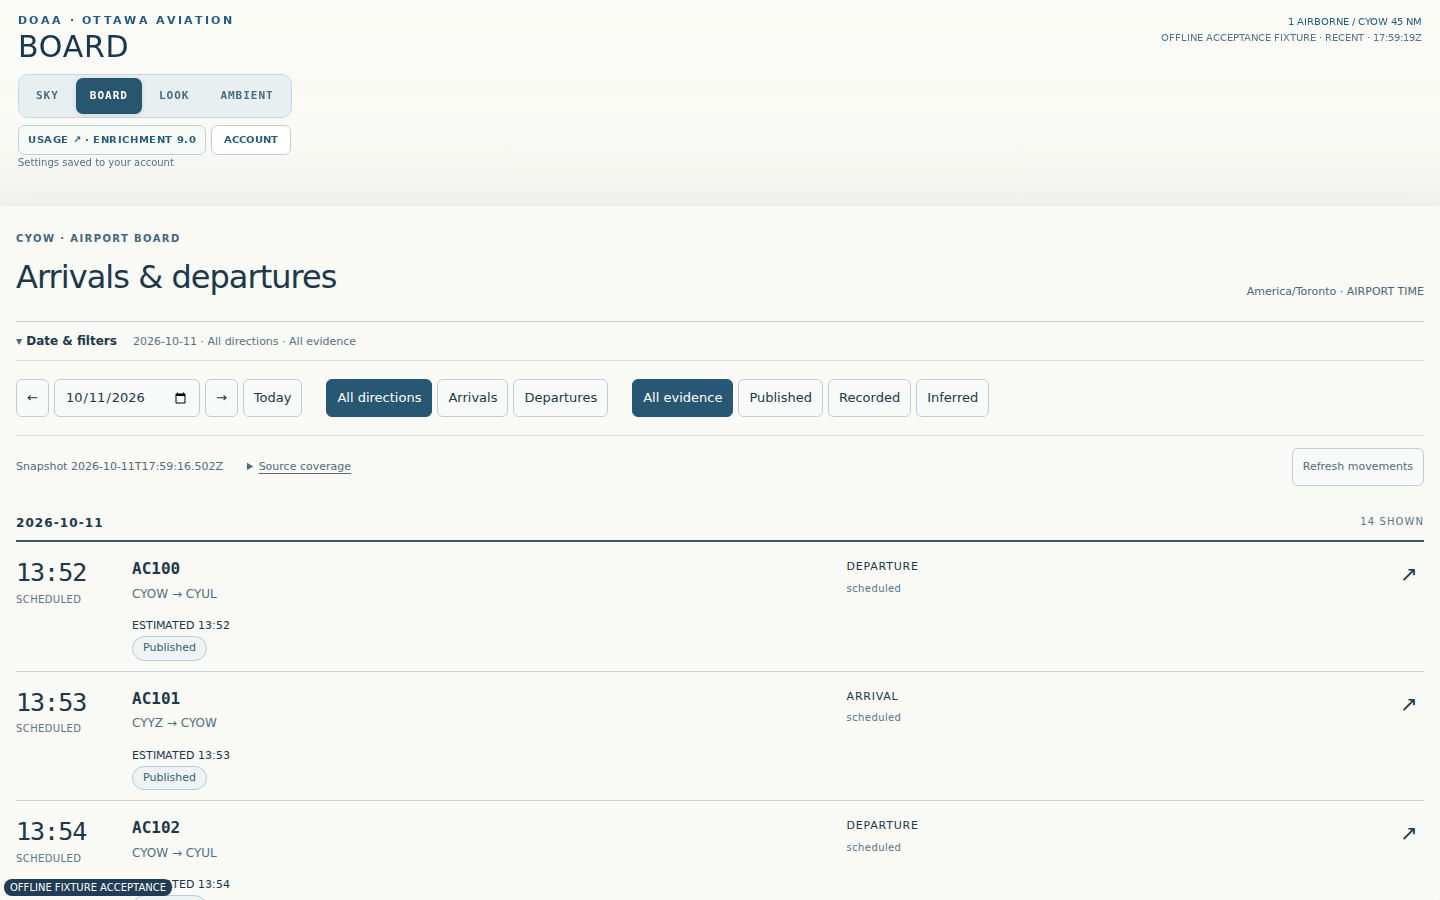
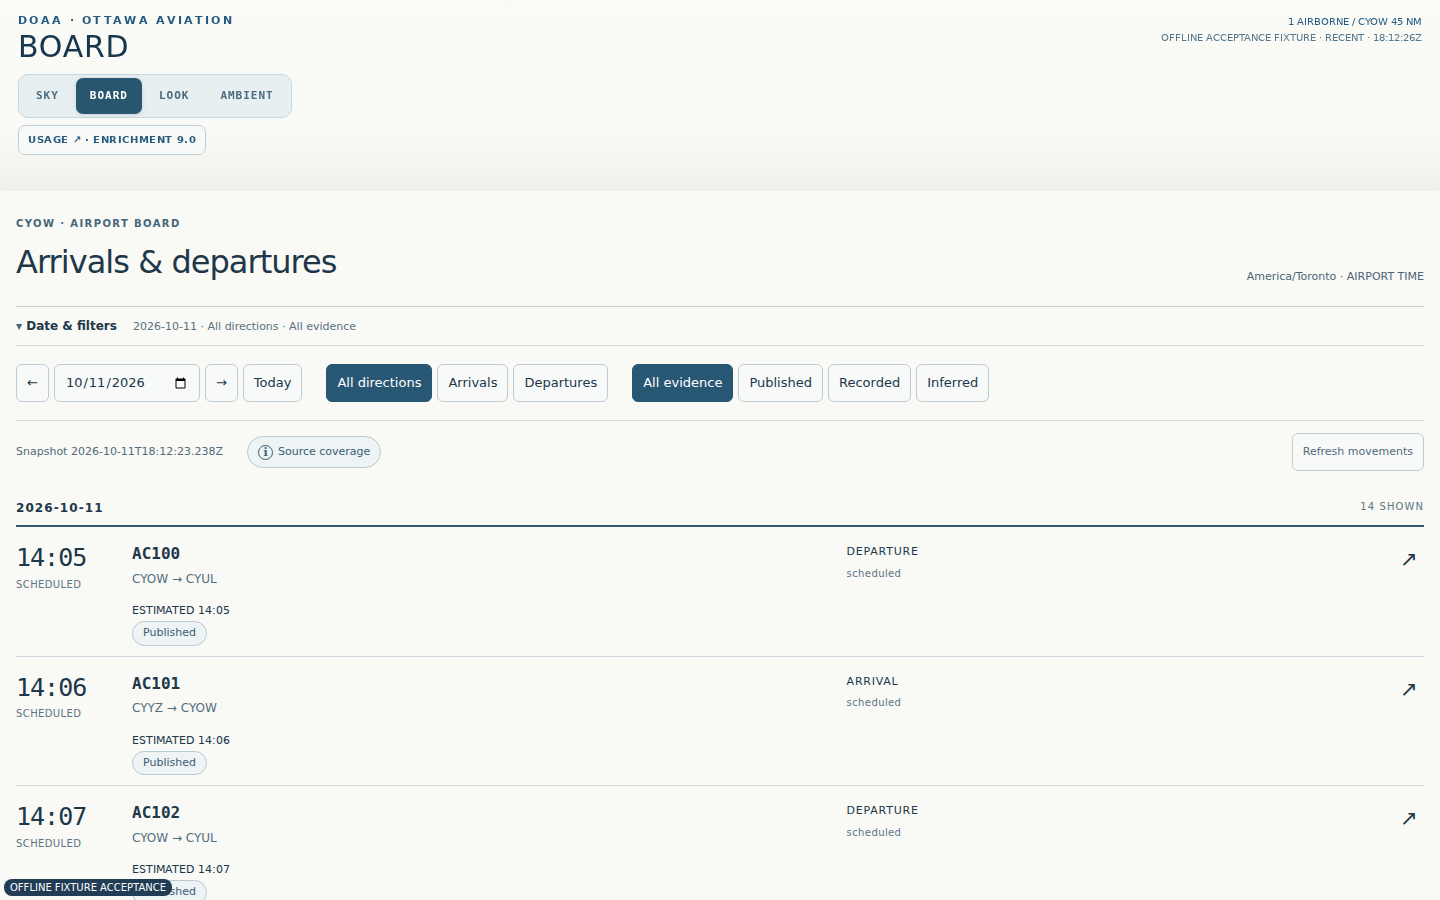
Polish view switcher and preference actions [skip ci]

diff --git a/account.js b/account.js
@@ -3,10 +3,11 @@
  'use strict';
  let sync,initializing;
  async function api(path,method='GET',body){const r=await fetch(path,{method,cache:'no-store',headers:body?{'content-type':'application/json'}:undefined,body:body?JSON.stringify(body):undefined,signal:AbortSignal.timeout(10000)}),j=await r.json();if(!r.ok||!j.ok)throw Error(j.error||'Account service unavailable');return j;}
- const descriptions={loading:'Loading account preferences',saved:'Settings saved to your account',pending:'Settings applied locally; waiting to save',saving:'Saving account settings',failed:'Settings applied locally; account save failed',unavailable:'Account settings could not be refreshed'};
- function notify(detail){document.querySelectorAll('[data-preference-state]').forEach(e=>{e.textContent=descriptions[detail.state]||detail.state;e.dataset.state=detail.state;});const retry=document.querySelector('[data-account-retry]');if(retry)retry.hidden=!['failed','pending','unavailable'].includes(detail.state);}
+ const descriptions={loading:'Loading account preferences',saved:'',pending:'Settings applied locally; waiting to save',saving:'Saving account settings',failed:'Settings applied locally; account save failed',unavailable:'Account settings could not be refreshed'};
+ function notify(detail){document.querySelectorAll('[data-preference-state]').forEach(e=>{e.textContent=descriptions[detail.state]??detail.state;e.dataset.state=detail.state;e.hidden=['saved','loading','saving'].includes(detail.state);});const retry=document.querySelector('[data-account-retry]');if(retry)retry.hidden=!['failed','pending','unavailable'].includes(detail.state);}
  async function refresh(){const snapshot=await sync.refresh();if(snapshot)window.dispatchEvent(new CustomEvent('doaa:preferences-restored'));}
- function open(){const previous=document.activeElement,dialog=document.createElement('dialog');dialog.className='account-dialog';dialog.innerHTML='<header><h2>Your account</h2><button type="button" data-close aria-label="Close account">×</button></header><p data-preference-state role="status"></p><p>Your Home, units and display settings follow your signed-in account. The latest complete snapshot accepted by the server replaces the previous one. A delayed retry also replaces that snapshot.</p><button type="button" data-saved>Saved moments</button><button type="button" data-refresh>Refresh settings</button><button type="button" data-account-retry>Retry save</button><form method="post" action="/auth/sign-out"><button type="submit">Sign out</button></form>';document.body.appendChild(dialog);dialog.showModal();notify({state:sync.state});dialog.querySelector('[data-close]').onclick=()=>dialog.close();dialog.onclose=()=>{dialog.remove();previous?.focus();};dialog.querySelector('[data-saved]').onclick=()=>{dialog.close();window.DOAABookmarks?.open();};dialog.querySelector('[data-refresh]').onclick=refresh;dialog.querySelector('[data-account-retry]').onclick=()=>{sync.attempt=0;sync.pending?sync.flush():refresh();};}
- async function initialize(){if(initializing)return initializing;initializing=(async()=>{const identity=await api('/api/account');sync=new window.DOAAPreferenceCore.Sync({subject:identity.subject,request:(method,body)=>api('/api/preferences',method,body),persistence:window.localStorage,onChange:notify});await sync.load();window.DOAAStorage={getItem:k=>sync.getItem(k),setItem:(k,v)=>sync.setItem(k,v)};const host=document.getElementById('build')?.parentElement;if(host){const button=document.createElement('button');button.type='button';button.id='account-open';button.textContent='ACCOUNT';button.setAttribute('aria-label','Your account and saved settings');button.onclick=open;host.appendChild(button);const status=document.createElement('small');status.dataset.preferenceState='1';status.setAttribute('role','status');host.appendChild(status);notify({state:sync.state});}window.addEventListener('online',()=>{sync.attempt=0;sync.pending?sync.flush():refresh();});document.addEventListener('visibilitychange',()=>{if(!document.hidden)refresh();});return sync;})();return initializing;}
- window.DOAAAccount={initialize,open,refresh,get subject(){return sync?.subject||null;}};
+ function open(){const previous=document.activeElement,dialog=document.createElement('dialog');dialog.className='account-dialog';dialog.innerHTML='<header><h2>Your account</h2><button type="button" data-close aria-label="Close account">×</button></header><p data-preference-state role="status"></p><p>Your Home, units and display settings follow your signed-in account. Changes save automatically. If a save fails, your current settings stay in place while you retry.</p><button type="button" data-saved>Saved moments</button><button type="button" data-refresh>Refresh settings</button><button type="button" data-account-retry>Retry save</button><form method="post" action="/auth/sign-out"><button type="submit">Sign out</button></form>';document.body.appendChild(dialog);dialog.showModal();notify({state:sync.state});dialog.querySelector('[data-close]').onclick=()=>dialog.close();dialog.onclose=()=>{dialog.remove();previous?.focus();};dialog.querySelector('[data-saved]').onclick=()=>{dialog.close();window.DOAABookmarks?.open();};dialog.querySelector('[data-refresh]').onclick=refresh;dialog.querySelector('[data-account-retry]').onclick=()=>{sync.attempt=0;sync.pending?sync.flush():refresh();};}
+ function mount(host){if(!host)return;const footer=document.createElement('div');footer.className='sky-account-footer';const button=document.createElement('button');button.type='button';button.id='account-open';button.textContent='Account';button.setAttribute('aria-label','Your account and saved settings');button.onclick=open;footer.appendChild(button);host.appendChild(footer);}
+ async function initialize(){if(initializing)return initializing;initializing=(async()=>{const identity=await api('/api/account');sync=new window.DOAAPreferenceCore.Sync({subject:identity.subject,request:(method,body)=>api('/api/preferences',method,body),persistence:window.localStorage,onChange:notify});await sync.load();window.DOAAStorage={getItem:k=>sync.getItem(k),setItem:(k,v)=>sync.setItem(k,v)};const host=document.getElementById('build')?.parentElement;if(host){const status=document.createElement('small');status.dataset.preferenceState='1';status.setAttribute('role','status');host.appendChild(status);notify({state:sync.state});}window.addEventListener('online',()=>{sync.attempt=0;sync.pending?sync.flush():refresh();});document.addEventListener('visibilitychange',()=>{if(!document.hidden)refresh();});return sync;})();return initializing;}
+ window.DOAAAccount={initialize,open,refresh,mount,get subject(){return sync?.subject||null;}};
 })();

diff --git a/index.html b/index.html
@@ -182,6 +182,13 @@ html,body{background:#f3f4ef;color:var(--ice)}
 
 /* Flight and Airframe investigation, using the shared loaded evidence. */
 .flight-timing-grid .inspector-facts{grid-template-columns:repeat(2,minmax(0,1fr));gap:0 14px}.flight-timing-grid .fact-value{font-size:14px;font-weight:650}.inspector-note{font:12px/1.55 system-ui;color:#526773;margin:8px 0;overflow-wrap:anywhere}.flight-route-strip{position:relative;height:24px;margin:9px 8px 0}.flight-route-line{position:absolute;left:0;right:0;top:12px;border-top:1px dashed #7794a5}.flight-route-dot{position:absolute;top:8px;width:9px;height:9px;margin-left:-4px;border-radius:50%;background:#285e81}.flight-map{margin:12px 0;color:#305d78;border:1px solid #cbd5d9;background:#eff3f2;border-radius:10px;overflow:hidden}.flight-map svg{display:block;width:100%;max-height:245px}.flight-map figcaption{padding:9px 12px;font:11px/1.55 system-ui;color:#536977}.inspector-action,.inspector-loading button{min-height:44px;padding:9px 12px;border:1px solid #b5c9d3;border-radius:7px;background:#fff;color:#285e81;font:13px system-ui;cursor:pointer}.inspector-action:focus-visible,.inspector-loading button:focus-visible{outline:3px solid #285e81;outline-offset:2px}.airframe-chronology{padding-left:20px;margin:8px 0}.airframe-chronology li{padding:8px 0;border-bottom:1px solid #ced9dd;overflow-wrap:anywhere;font-size:13px}.airframe-chronology small{font-size:11px;color:#536c78}.inspector-loading{font:12px/1.5 system-ui;color:#55727d;display:flex;align-items:center;gap:9px;margin:10px 0;flex-wrap:wrap}.inspector-loading[data-state="loading"]:before{content:"";width:10px;height:10px;border:2px solid #9fb4c0;border-top-color:#285e81;border-radius:50%;animation:inspector-spin 1s linear infinite}.inspector-evidence-summary{font-size:12px;color:#546d79}.journey-summary{display:grid;gap:8px;margin:12px 0}.journey-summary>div{padding:10px;background:#edf2f2;border-radius:7px}.journey-summary strong{display:block;font-size:11px;letter-spacing:.06em;color:#526c7a}.journey-chronology{padding:0;list-style:none;margin:10px 0}.journey-chronology li{border-left:2px solid #aebfca;padding:8px 0 10px 12px;margin-left:4px}.journey-chronology time{display:block;font:12px/1.6 ui-monospace;color:#4f6875}.journey-chronology button{display:block;width:100%;min-height:44px;padding:8px 0;text-align:left;border:0;background:transparent;color:#285e81;font:600 13px/1.5 system-ui;cursor:pointer}@keyframes inspector-spin{to{transform:rotate(360deg)}}@media(prefers-reduced-motion:reduce){.inspector-loading[data-state="loading"]:before{animation:none;border-radius:2px}}
+
+/* Keep the whole view switcher inside its surface; account actions belong with preferences. */
+.primary-tabs{box-sizing:border-box}
+[data-preference-state][hidden]{display:none}
+.sky-account-footer{margin-top:18px;padding-top:14px;border-top:1px solid #c6d2d6}
+.sky-account-footer #account-open{margin:0;min-height:44px;font:600 12px system-ui;padding:8px 14px}
+@media(max-width:640px){.top>div:first-child{grid-column:1/-1;grid-row:1}.top .status{grid-column:2;grid-row:1}.primary-tabs{max-width:100%}.primary-tabs button{flex:0 1 auto;white-space:nowrap}}
 </style><link rel="stylesheet" href="/ambient.css"><link rel="stylesheet" href="/track-history.css">
 </head><body>
 <div id="vector-base" aria-hidden="true"></div><canvas id="tiles"></canvas><canvas id="sky"></canvas><div class="top"><div><div class="brand">DOAA · OTTAWA AVIATION</div><div class="title" id="viewtitle">SKY</div><nav id="primary-tabs" class="primary-tabs" aria-label="DOAA views"><button type="button" data-primary="SKY" aria-pressed="true">SKY</button><button type="button" data-primary="BOARD" aria-pressed="false">BOARD</button><button type="button" data-primary="LOOK" aria-pressed="false">LOOK</button><button type="button" id="ambient-open" aria-label="Ambient display options">AMBIENT</button></nav><div class="build" id="build" role="button" tabindex="0" aria-expanded="false" aria-controls="quota-panel" title="Open provider usage">USAGE ↗</div></div><div class="status" id="status">ACQUIRING…</div></div><section id="quota-panel" class="quota-panel" aria-live="polite"><div class="quota-head"><strong>AIRLABS · PROVIDER USAGE</strong><button type="button" id="quota-close" aria-label="Close provider usage" title="Close provider usage">×</button></div><div id="quota-data">Loading telemetry…</div></section><div id="viewmenu" class="viewmenu"></div><nav class="map-choice" aria-label="Base map"><button type="button" data-map="base" aria-pressed="true">BASE</button><button type="button" data-map="street" aria-pressed="false">STREET</button></nav><main id="board" class="board" tabindex="-1" aria-label="Airport movements and LOOK observations"></main><div id="catchment" class="catchment"></div><div id="detail" class="detail"><button id="detail-expand" class="detail-expand" type="button" aria-expanded="false" aria-controls="detailbody">Expand</button><button id="detailclose" class="detail-close" type="button" aria-label="Close Investigator">×</button><div id="detailbody" class="detail-body"></div><div id="detailtray" class="detail-tray" aria-label="Investigator sections"></div></div><button id="recenter" class="recenter">⌖ RETURN HOME</button><div id="attrib" class="attrib">MAP OSM · ACQUIRING</div><aside class="rail" id="rail"><div class="pull" id="pull"></div><div class="rackhead"><h2 class="racktitle">NEARBY AIRCRAFT</h2><input id="rackquery" class="rackquery" type="search" autocomplete="off" spellcheck="false" placeholder="SEARCH DOAA"><button id="racksearch" class="racksearch" aria-label="Search DOAA">⌕</button></div><div id="rack"></div></aside>
@@ -373,6 +380,7 @@ function renderCatchment(mode='main'){
   catchment.querySelectorAll('[data-n]').forEach(b=>b.onclick=()=>{catchmentContext.setRadius(+b.dataset.n);persistHome();configured=catchmentContext.radius;renderCatchment();reset(true)});
   DOAAUnits.mount(catchment.querySelector('[data-units]'));
  }
+ window.DOAAAccount.mount(catchment.querySelector('.sky-settings-body'));
  catchment.querySelector('[data-close]').onclick=()=>{++airportResolveSequence;catchment.classList.remove('show')};
 }
 

diff --git a/movement-workspace.css b/movement-workspace.css
@@ -6,3 +6,5 @@
 .movement-controls>summary{cursor:pointer;padding:10px 0;font-size:12px;font-weight:600;list-style:none;border-bottom:1px solid #d6dedf}.movement-controls>summary::before{content:'▸ ';color:#42687f}.movement-controls[open]>summary::before{content:'▾ '}.movement-controls>summary span{font-weight:400;color:#587180;margin-left:12px;font-size:11px}.movement-controls>summary::-webkit-details-marker{display:none}
 @media(max-width:700px),(max-height:560px){.movement-heading{padding-bottom:12px}.movement-heading h2{font-size:22px}.movement-heading .movement-zone{font-size:10px}.movement-controls>summary{min-height:28px;padding:10px 0}.movement-coverage{gap:8px 14px;padding:10px 0 14px}.movement-coverage button{min-height:36px;font-size:11px}.movement-coverage p{font-size:10px}.movement-row{padding:5px 0 7px}}
 @media(orientation:landscape) and (max-height:560px){.movement-heading{display:flex;align-items:center;padding:0 0 6px}.movement-heading h2{display:none}.movement-heading .movement-zone{margin-top:0}.movement-coverage{padding:6px 0 10px}.movement-controls>summary{min-height:20px;padding:7px 0}}
+
+.movement-coverage>details>summary{display:inline-flex;align-items:center;gap:5px;min-height:32px;box-sizing:border-box;width:max-content;padding:4px 10px;border:1px solid #b9cbd3;border-radius:18px;background:#eef3f5;color:#3a5e72;text-decoration:none;list-style:none;cursor:pointer}.movement-coverage>details>summary::before{content:'i';font:600 11px Georgia,serif;width:13px;height:13px;line-height:13px;text-align:center;border:1px solid currentColor;border-radius:50%}.movement-coverage>details>summary::-webkit-details-marker{display:none}.movement-coverage>details[open]>summary{background:#e3edf1}

diff --git a/DEV_LOG.md b/DEV_LOG.md
@@ -332,3 +332,9 @@ Verification: 149 Node tests passed. Final full browser regression and focused d
 Decisions 19–23 and shared UX Decisions 1–3 have additional implementation evidence. No whole row is marked complete: matrix remains 0 complete, 134 partial, 49 missing, 1 blocked. Historical/future archive windows, full matching/revisions, sourced schedules, runway activity/Stats and continuous budgeted live updates remain open. Exact scope: MOVEMENTS_UX_CONTRACT.md and UX_PUSH_2026-10-11.md. CHAT_HANDOFF_2026-10-11.md supersedes its earlier wholesale BOARD deferral and identifies source/configuration review for CHAT; retained universal search (67–77) is the next strong WORK UX tranche.
 
 No remote D1 writes, imports/migrations, deployment, main merge, paid activation or Actions run. This batch adds no Worker BOARD D1 query/write and no automatic polling. Existing authentication/upstream costs remain; no live quota claim is made. Code protections and UX changes are not deployed. Authorized publication is only work/product-recovery-mobile-sky, with PR #48 retained as draft. Rollback reference is the preceding Inspector checkpoint; no data deletion is needed.
+
+## 2026-10-11 — header and preferences UX refinements
+
+Fixed AMBIENT overflowing its view-switcher surface on narrow screens. Moved Account to the bottom of catchment/preferences, after the settings and recent areas. Source Coverage is now an expandable pill. Removed routine successful-save text; pending/failure feedback and Retry save remain available. Simplified account prose without changing preference synchronization.
+
+Validation: 149 Node tests passed; full browser regression and dense movement acceptance each passed desktop, phone, landscape and tablet against the final source. Updated reports and labelled offline-fixture screenshots are in docs/qa. This is local fixture acceptance, not signed-in Preview or live-provider acceptance. No new D1 acquisition, remote database writes, migration, deployment, main merge or Actions run. PR #48 stays draft. CHAT handoff scope is unchanged.

diff --git a/docs/UX_PUSH_2026-10-11.md b/docs/UX_PUSH_2026-10-11.md
@@ -23,3 +23,9 @@ CHAT can review source rights, actual schedule/archive availability, Google/priv
 No remote D1 writes, imports, migrations or deployment. No new D1 query/write was added to the BOARD Worker path. Date/filter interaction reuses client evidence; returns within 60 seconds reuse snapshots. Explicit refresh retains existing acquisition/authentication costs, which are not measured here. No automatic polling or provider activation was added. Main/Production are unchanged, PR remains draft. To roll back the app source, use the prior published Inspector checkpoint on this work branch; do not perform data deletion or main reset.
 
 Final fixture screenshots and browser reports are preserved under docs/qa. See MOVEMENTS_UX_CONTRACT.md and CHAT_HANDOFF_2026-10-11.md for limits and continuation instructions.
+
+## 2026-10-11 — header and preferences UX refinements
+
+Fixed AMBIENT overflowing its view-switcher surface on narrow screens. Moved Account to the bottom of catchment/preferences, after the settings and recent areas. Source Coverage is now an expandable pill. Removed routine successful-save text; pending/failure feedback and Retry save remain available. Simplified account prose without changing preference synchronization.
+
+Validation: 149 Node tests passed; full browser regression and dense movement acceptance each passed desktop, phone, landscape and tablet against the final source. Updated reports and labelled offline-fixture screenshots are in docs/qa. This is local fixture acceptance, not signed-in Preview or live-provider acceptance. No new D1 acquisition, remote database writes, migration, deployment, main merge or Actions run. PR #48 stays draft. CHAT handoff scope is unchanged.

diff --git a/docs/RELEASE_RC_CHECKPOINT.md b/docs/RELEASE_RC_CHECKPOINT.md
@@ -1,3 +1,9 @@
+## 2026-10-11 — header and preferences UX refinements
+
+Fixed AMBIENT overflowing its view-switcher surface on narrow screens. Moved Account to the bottom of catchment/preferences, after the settings and recent areas. Source Coverage is now an expandable pill. Removed routine successful-save text; pending/failure feedback and Retry save remain available. Simplified account prose without changing preference synchronization.
+
+Validation: 149 Node tests passed; full browser regression and dense movement acceptance each passed desktop, phone, landscape and tablet against the final source. Updated reports and labelled offline-fixture screenshots are in docs/qa. This is local fixture acceptance, not signed-in Preview or live-provider acceptance. No new D1 acquisition, remote database writes, migration, deployment, main merge or Actions run. PR #48 stays draft. CHAT handoff scope is unchanged.
+
 ## 2026-10-11 — UX push: shared BOARD / Airfield Movements
 
 Continued from published Inspector checkpoint 0395487. Implemented shared chronological movement model and responsive renderer; date/Today/Live navigation, direction/evidence filters, independent provenance disclosures, Flight/recorded Contact/provisional navigation, cache reuse and preserved reading state. Phone/short-landscape controls start compact. Airport-local reference zones are explicit; unknown zones remain UTC. Header overlap, off-screen Return Home, independent BOARD scroll and broken map tile failure were repaired through real browser work.
